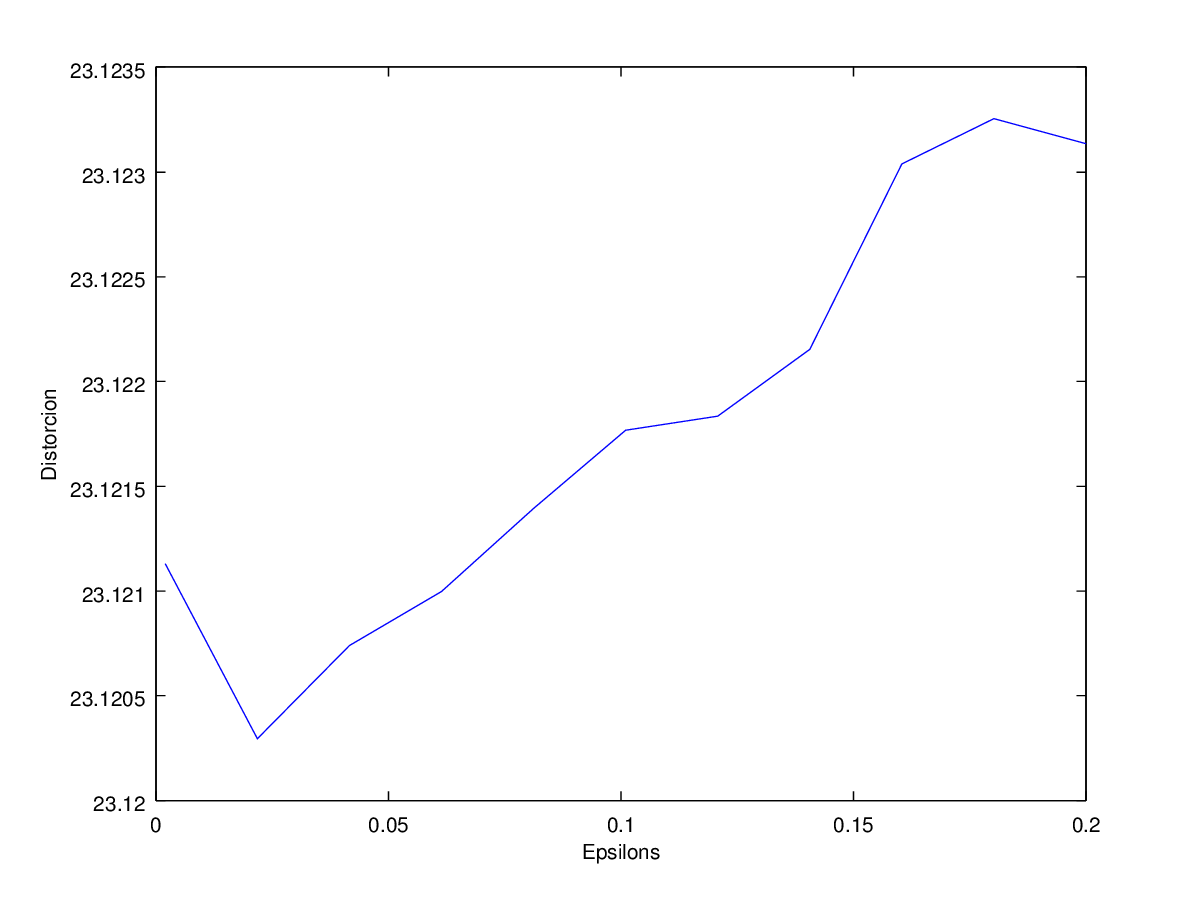
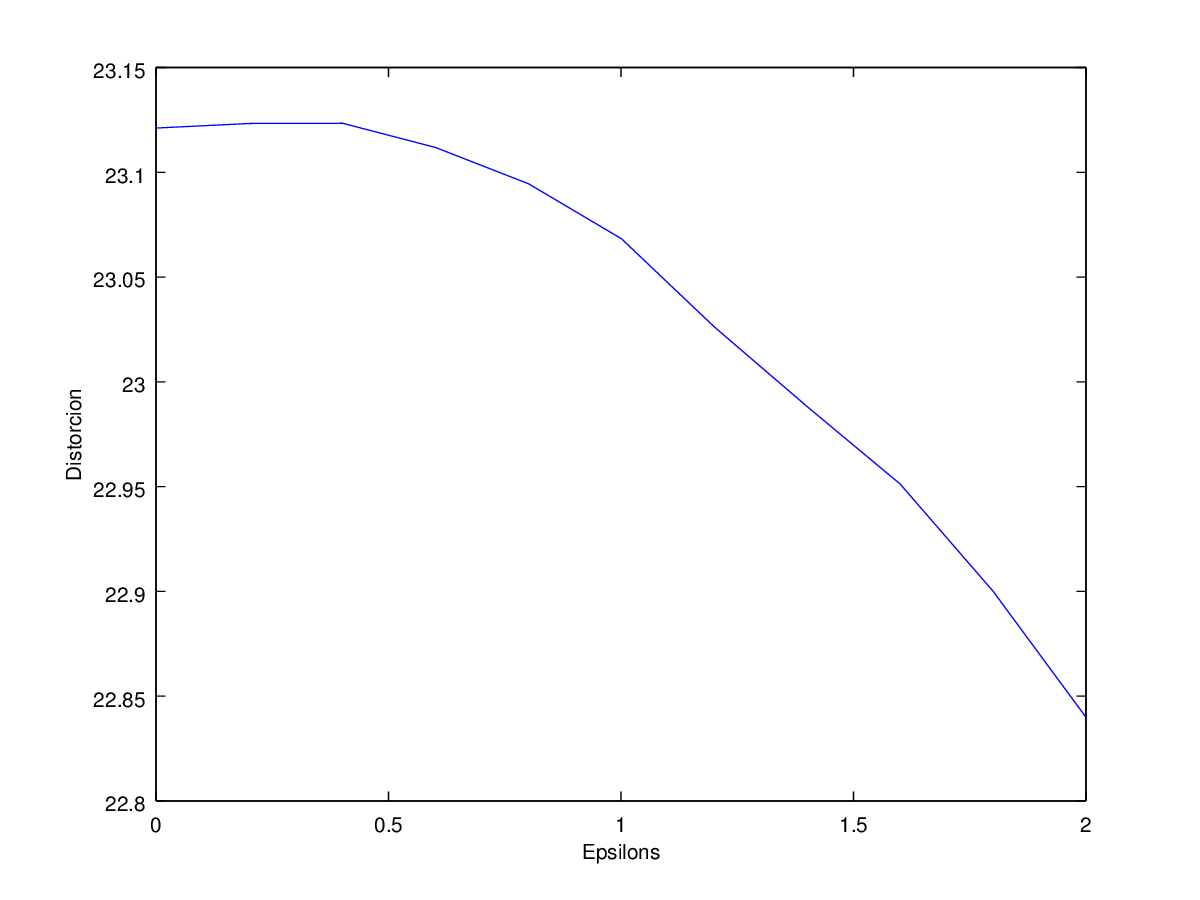
Plots and readme update

diff --git a/README.md b/README.md
@@ -3,7 +3,7 @@ Using FFT to compress audio.
 
 #HOW-TO
 - To compress, uncompress, generate audio and make plots for different epsilons (100 number between 0.002 and 0.2):
-plot_fixed_bits('11',0.0002, 10, 0.2, 8)
+plot_fixed_bits('11',0.0002, 10, 2, 8)
 genera:
 11_epsi_compression.png
 11_epsi_distortion.png
